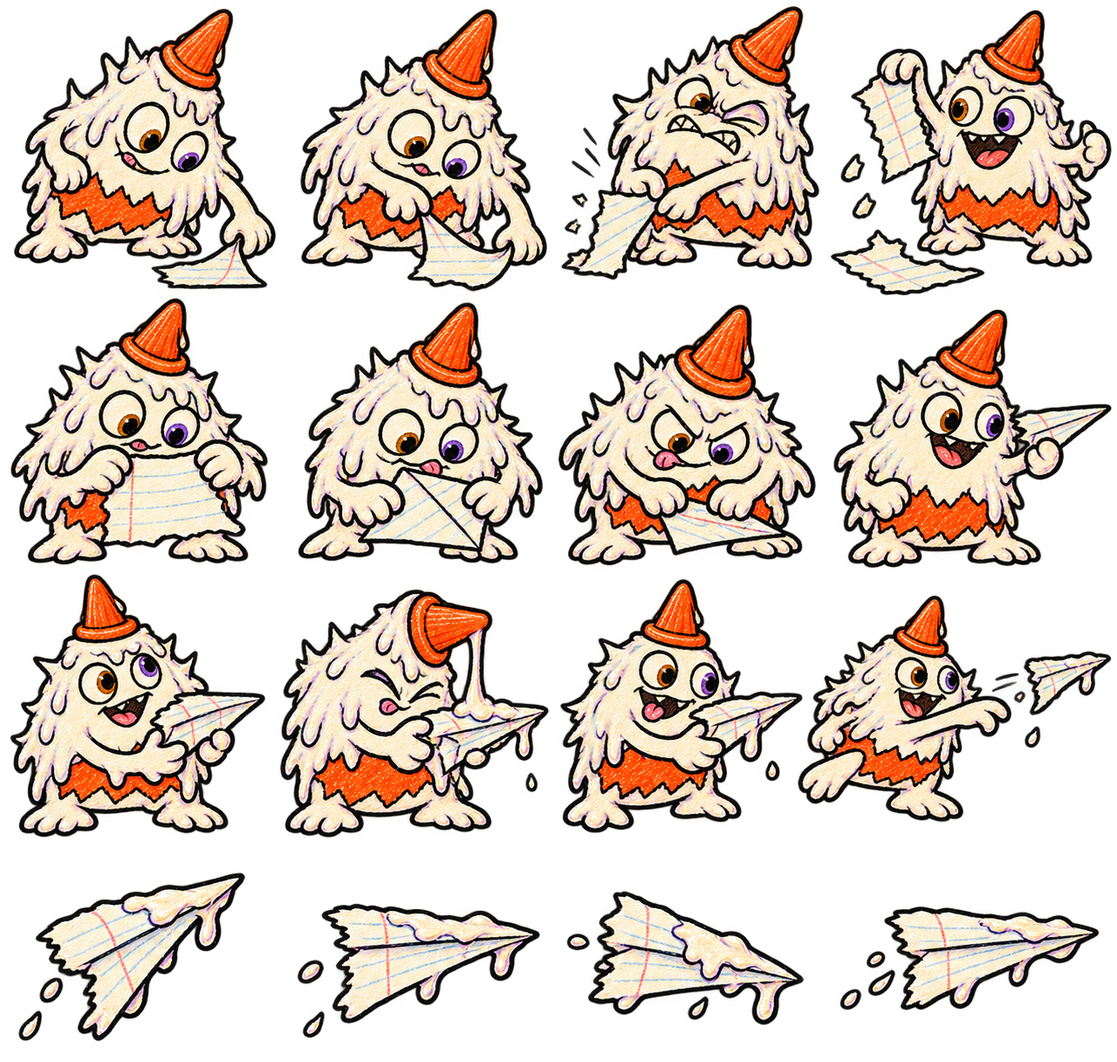
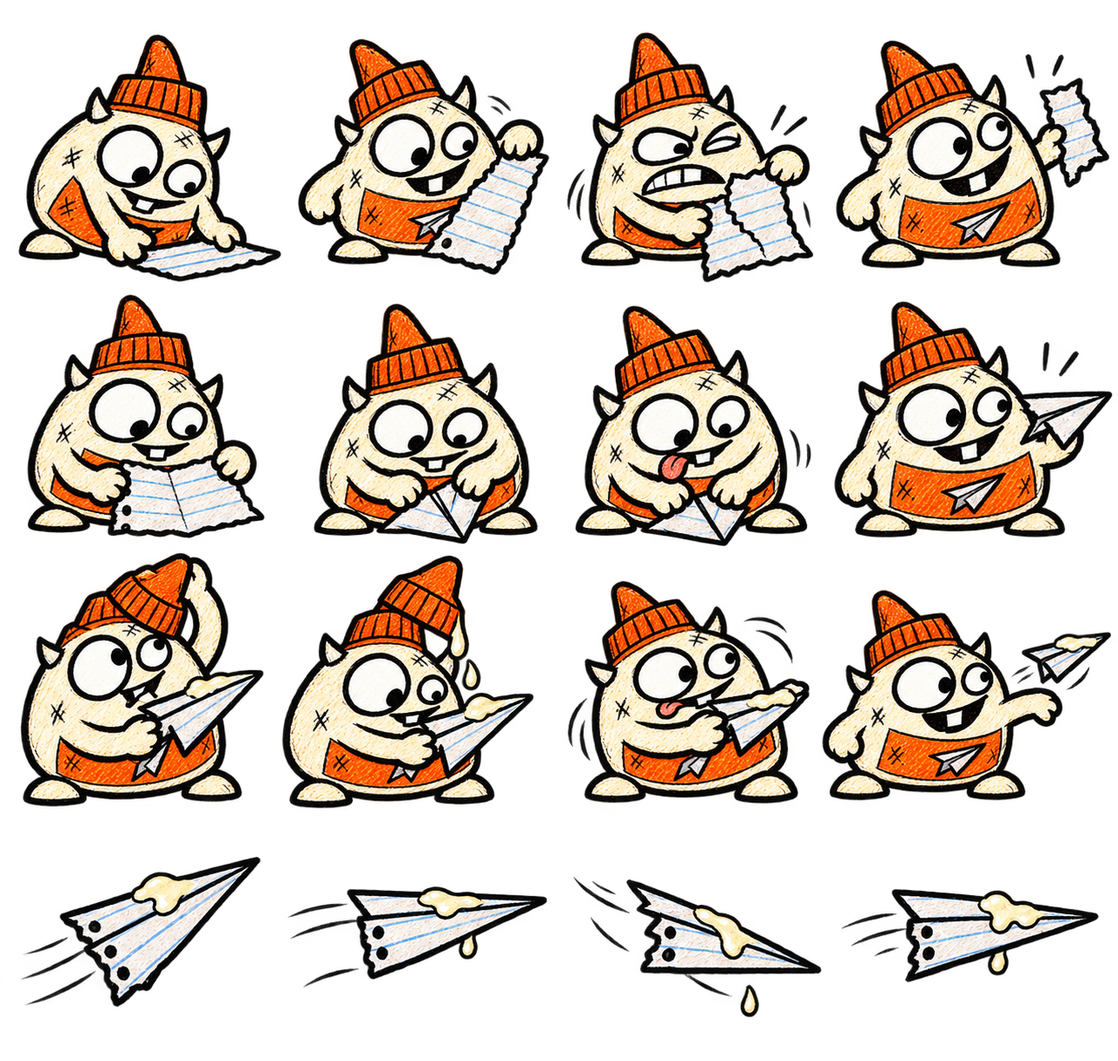
Redesign White Brothers with distinct clean notebook monster silhouettes

diff --git a/index.html b/index.html
@@ -293,7 +293,7 @@
 </div>
 <div id="focusResumeOverlay" hidden role="dialog" aria-modal="true" aria-labelledby="focusResumeTitle"><div class="focus-resume-note"><span class="section-kicker">PENCIL DOWN</span><h2 id="focusResumeTitle">Saved your place.</h2><p>The game paused while you were away. Click when you’re ready.</p><button id="focusResumeBtn">Click to resume</button></div></div>
 <div id="desktopInkFeedback" hidden role="status">Not enough ink</div>
-<div class="overlay build-overlay" id="whiteBrothersOverlay" style="display:none" role="dialog" aria-modal="true" aria-labelledby="brothersTitle"><div class="cardbox build-box brothers-studio"><div class="build-heading"><div><span class="section-kicker">STEVIE’S MONSTER WORKSHOP</span><h2 id="brothersTitle">The White Brothers</h2></div><button id="closeWhiteBrothersBtn">Back to settings</button></div><p class="brothers-caption">Mr. Out &amp; Mr. Glue · Character and animation preview. The boss encounter comes later.</p><canvas id="brothersCanvas" width="1000" height="530" aria-label="Animated Mr. Out and Mr. Glue monster models"></canvas><div class="brothers-tools"><label>Animate<select id="brothersCharacter"><option value="both">Both brothers</option><option value="wite">Mr. Out</option><option value="glue">Mr. Glue</option></select></label><label>Speed<select id="brothersSpeed"><option value="0.5">Half speed</option><option value="1" selected>Normal</option><option value="2">Double speed</option></select></label><label><input id="brothersLoop" type="checkbox" checked>Loop</label><label><input id="brothersReduced" type="checkbox">Low motion</label></div><div class="brothers-actions"><button type="button" id="brothers-idle" class="secondary">Idle</button><button type="button" id="brothers-walk" class="secondary">Walk</button><button type="button" id="brothers-intro" class="secondary">Entrance</button><button type="button" id="brothers-attack" class="secondary">Attack</button><button type="button" id="brothers-throw" class="secondary">Throw</button><button type="button" id="brothers-hit" class="secondary">Hit</button><button type="button" id="brothers-dizzy" class="secondary">Dizzy</button><button type="button" id="brothers-tantrum" class="secondary">Tantrum</button><button type="button" id="brothers-defeat" class="secondary">Defeat</button></div><footer class="brothers-footer"><button id="brothersShowcaseBtn">Stop showcase</button><button id="brothersPauseBtn" class="secondary">Pause</button><button id="brothersResetBtn" class="secondary">Reset poses</button></footer><p id="brothersStatus" role="status"></p></div></div>
+<div class="overlay build-overlay" id="whiteBrothersOverlay" style="display:none" role="dialog" aria-modal="true" aria-labelledby="brothersTitle"><div class="cardbox build-box brothers-studio"><div class="build-heading"><div><span class="section-kicker">STEVIE’S MONSTER WORKSHOP</span><h2 id="brothersTitle">The White Brothers</h2></div><button id="closeWhiteBrothersBtn">Back to settings</button></div><p class="brothers-caption">Mr. Out &amp; Mr. Glue · Character and animation preview. Meet both brothers together on wave 20.</p><canvas id="brothersCanvas" width="1000" height="530" aria-label="Animated Mr. Out and Mr. Glue monster models"></canvas><div class="brothers-tools"><label>Animate<select id="brothersCharacter"><option value="both">Both brothers</option><option value="wite">Mr. Out</option><option value="glue">Mr. Glue</option></select></label><label>Speed<select id="brothersSpeed"><option value="0.5">Half speed</option><option value="1" selected>Normal</option><option value="2">Double speed</option></select></label><label><input id="brothersLoop" type="checkbox" checked>Loop</label><label><input id="brothersReduced" type="checkbox">Low motion</label></div><div class="brothers-actions"><button type="button" id="brothers-idle" class="secondary">Idle</button><button type="button" id="brothers-walk" class="secondary">Walk</button><button type="button" id="brothers-intro" class="secondary">Entrance</button><button type="button" id="brothers-attack" class="secondary">Attack</button><button type="button" id="brothers-throw" class="secondary">Throw</button><button type="button" id="brothers-hit" class="secondary">Hit</button><button type="button" id="brothers-dizzy" class="secondary">Dizzy</button><button type="button" id="brothers-tantrum" class="secondary">Tantrum</button><button type="button" id="brothers-defeat" class="secondary">Defeat</button></div><footer class="brothers-footer"><button id="brothersShowcaseBtn">Stop showcase</button><button id="brothersPauseBtn" class="secondary">Pause</button><button id="brothersResetBtn" class="secondary">Reset poses</button></footer><p id="brothersStatus" role="status"></p></div></div>
 <div class="overlay" id="desktopQuitOverlay" style="display:none" role="dialog" aria-modal="true" aria-labelledby="desktopQuitTitle"><div class="cardbox desktop-quit-note"><h2 id="desktopQuitTitle">Close the notebook?</h2><p>Your current run ends here. Banked scraps, upgrades and discoveries stay saved.</p><div class="cardactions"><button class="secondary" id="desktopQuitCancel">Keep playing</button><button id="desktopQuitConfirm">Quit to desktop</button></div><p id="desktopQuitStatus" role="status"></p></div></div>
 <div class="overlay build-overlay" id="optionsOverlay" style="display:none" role="dialog" aria-modal="true" aria-labelledby="optionsTitle">
   <div class="cardbox build-box options-book">
@@ -437,7 +437,7 @@
     <p>Recent updates, newest first. Your run pauses while this screen is open.</p>
     <!-- CHANGELOG: prepend a new article for each future player-facing update. Keep older entries. -->
     <div id="changelogEntries" class="build-upgrades">
-      <article class="build-entry"><h3>Alpha 0.1.100 · The White Brothers get crafty</h3><p>Wave 20 now features Mr. Out and Mr. Glue with a shared health bar. Draw over little brushes to collect whiteout—even with an empty ink tank—then paint either brother to hurt them. Empty brushes run away. Erase floor glue to load a sticky eraser, then leave traps that catch brushes and airplanes or briefly pin a brother. Tool coatings run out and return to normal without spending saved ink. The brothers clear walls, ignore wall damage and conditions, and take limited paper-ball damage. Includes animated paper tearing, folding, glue squeezing, lazy airplanes and clear tool-supply cues.</p><p>PC introductions and wave transitions fit on one screen. Rip-Raff works from far margins with animated cutting and erasable flying grenades. Pew-Pew shoots farther on PC. Native desktop adds confirmed Quit to Desktop actions. Vampire healing starts 30% lower and gains half as much per rank; its damage stays unchanged.</p></article>
+      <article class="build-entry"><h3>Alpha 0.1.100 · The White Brothers get crafty</h3><p>Wave 20 now features Mr. Out and Mr. Glue with a shared health bar. Draw over little brushes to collect whiteout—even with an empty ink tank—then paint either brother to hurt them. Empty brushes run away. Erase floor glue to load a sticky eraser, then leave traps that catch brushes and airplanes or briefly pin a brother. Tool coatings run out and return to normal without spending saved ink. The brothers clear walls, ignore wall damage and conditions, and take limited paper-ball damage. Mr. Out is now a tall, tidy correction monster with a stern face and blue cap; Mr. Glue is a round orange-capped craft goblin with a buck-tooth grin. Clean crayon bodies, rounded hands and distinct expressions replace the drippy art, including the tearing, folding and airplane animations. Tool-supply cues remain clear.</p><p>PC introductions and wave transitions fit on one screen. Rip-Raff works from far margins with animated cutting and erasable flying grenades. Pew-Pew shoots farther on PC. Native desktop adds confirmed Quit to Desktop actions. Vampire healing starts 30% lower and gains half as much per rank; its damage stays unchanged.</p></article>
       <article class="build-entry"><h3>Alpha 0.1.99 · Meet the White Brothers</h3><p>Mr. Out and Mr. Glue have custom spiky, sticky monster artwork and articulated faces, claws and props. Try nine animations for each in Settings → Test a fight → Extras → White Brothers: idle, walk, entrance, attack, throw, hit, dizzy, tantrum and defeat. The studio includes individual selection, a showcase, speed, pause and low-motion controls. This is a character preview; the final boss fight is unchanged.</p></article>
       <article class="build-entry"><h3>Alpha 0.1.98 · A new shortcut at wave nine</h3><p>Zoom Nugget and Nope Goblin are taking a break from wave spawns and introductions; their artwork, notes and test options remain. Rip-Raff now arrives at wave nine, tearing shortcuts and calling runners beneath the paper. Scripted groups and King Doodle-Doom use Gribbles in place of Nuggets.</p></article>
       <article class="build-entry"><h3>Alpha 0.1.97 · Something under the homework</h3><p>Underground monsters now lift the paper into a shaded, crawling hump. Alternating paw presses, a forward head bulge, trailing creases and bent notebook lines make the creature feel beneath the sheet. The hump settles as it emerges; reduced motion keeps it steady. Tunnel rules and rubbing time are unchanged.</p></article>

diff --git a/js/white-brothers-rig.js b/js/white-brothers-rig.js
@@ -19,33 +19,43 @@ DoodleDefender.WhiteBrothersRig=(()=>{
   return p;
  }
  function line(ctx,points,color,width){ctx.beginPath();ctx.moveTo(...points[0]);for(const p of points.slice(1))ctx.lineTo(...p);ctx.lineCap='round';ctx.lineJoin='round';ctx.strokeStyle='#29272b';ctx.lineWidth=width+4;ctx.stroke();ctx.strokeStyle=color;ctx.lineWidth=width;ctx.stroke();}
- function hand(ctx,x,y,color){ctx.save();ctx.translate(x,y);ctx.fillStyle=color;ctx.strokeStyle='#29272b';ctx.lineWidth=2.4;ctx.beginPath();ctx.moveTo(-11,-5);ctx.lineTo(-7,-15);ctx.lineTo(-2,-7);ctx.lineTo(3,-18);ctx.lineTo(7,-6);ctx.lineTo(15,-12);ctx.lineTo(14,3);ctx.quadraticCurveTo(2,14,-9,6);ctx.closePath();ctx.fill();ctx.stroke();ctx.restore();}
+ function hand(ctx,x,y,color){ctx.save();ctx.translate(x,y);ctx.fillStyle=color;ctx.strokeStyle='#29272b';ctx.lineWidth=2.3;ctx.beginPath();ctx.moveTo(-10,2);ctx.quadraticCurveTo(-17,-8,-8,-9);ctx.quadraticCurveTo(-9,-18,-2,-12);ctx.quadraticCurveTo(5,-19,8,-9);ctx.quadraticCurveTo(20,-11,13,2);ctx.quadraticCurveTo(2,13,-10,2);ctx.fill();ctx.stroke();ctx.restore();}
+ function foot(ctx,x,y,color){ctx.fillStyle=color;ctx.strokeStyle='#29272b';ctx.lineWidth=2.6;ctx.beginPath();ctx.ellipse(x,y,19,8,-.12,0,Math.PI*2);ctx.fill();ctx.stroke();ctx.beginPath();ctx.moveTo(x-10,y+2);ctx.lineTo(x+11,y+1);ctx.stroke();}
  function star(ctx,x,y,r,color){ctx.save();ctx.translate(x,y);ctx.fillStyle=color;ctx.strokeStyle='#524149';ctx.lineWidth=1.4;ctx.beginPath();for(let i=0;i<10;i++){const a=-Math.PI/2+i*Math.PI/5,q=i%2?r*.45:r;i?ctx.lineTo(Math.cos(a)*q,Math.sin(a)*q):ctx.moveTo(Math.cos(a)*q,Math.sin(a)*q);}ctx.closePath();ctx.fill();ctx.stroke();ctx.restore();}
  function blob(ctx,x,y,r,color){ctx.fillStyle=color;ctx.strokeStyle='#65536c';ctx.lineWidth=2;ctx.beginPath();for(let i=0;i<14;i++){const a=i*Math.PI/7,q=r*(i%2?.75:1);i?ctx.lineTo(x+Math.cos(a)*q,y+Math.sin(a)*q):ctx.moveTo(x+Math.cos(a)*q,y+Math.sin(a)*q);}ctx.closePath();ctx.fill();ctx.stroke();}
  function face(ctx,p,glue){
-  ctx.save();ctx.translate(glue?2:0,-20);ctx.strokeStyle='#25242a';ctx.lineWidth=3;
-  for(const side of [-1,1]){const x=side*22,y=side===-1?-12:-16,rx=side===-1?17:14;ctx.fillStyle='#fffdf4';ctx.beginPath();ctx.ellipse(x,y,rx,p.blink?2:19,side*.13,0,Math.PI*2);ctx.fill();ctx.stroke();
-   if(!p.blink){if(p.face==='dizzy'){ctx.beginPath();for(let i=0;i<30;i++){const a=i*.3,r=i*.23;i?ctx.lineTo(x+Math.cos(a)*r,y+Math.sin(a)*r):ctx.moveTo(x,y);}ctx.lineWidth=1.6;ctx.stroke();ctx.lineWidth=3;}else if(['hurt','defeat'].includes(p.face)){ctx.beginPath();ctx.moveTo(x-5,y-5);ctx.lineTo(x+5,y+5);ctx.moveTo(x+5,y-5);ctx.lineTo(x-5,y+5);ctx.stroke();}else{ctx.fillStyle='#25242a';ctx.beginPath();ctx.ellipse(x+3,y+2,5,8,0,0,Math.PI*2);ctx.fill();}}
-   ctx.beginPath();ctx.moveTo(x-15,y-25+(side===-1?-3:4));ctx.lineTo(x+14,y-24+(side===-1?7:-6));ctx.lineWidth=5;ctx.stroke();ctx.lineWidth=3;
+  ctx.save();ctx.translate(0,glue?-2:-20);ctx.strokeStyle='#25242a';ctx.lineWidth=3;
+  for(const side of [-1,1]){
+   const x=side*(glue?24:21),y=side<0?-13:-9,rx=side<0?(glue?25:22):(glue?18:16),squint=!glue&&side>0&&!['roar','hurt','dizzy','defeat'].includes(p.face),ry=p.blink?2:squint?10:side<0?26:20;
+   ctx.fillStyle='#fffdf4';ctx.beginPath();ctx.ellipse(x,y,rx,ry,side*.08,0,Math.PI*2);ctx.fill();ctx.stroke();
+   if(!p.blink){
+    if(p.face==='dizzy'){ctx.beginPath();for(let i=0;i<30;i++){const a=i*.3,r=i*.23;i?ctx.lineTo(x+Math.cos(a)*r,y+Math.sin(a)*r):ctx.moveTo(x,y);}ctx.lineWidth=1.6;ctx.stroke();ctx.lineWidth=3;}
+    else if(['hurt','defeat'].includes(p.face)){ctx.beginPath();ctx.moveTo(x-5,y-5);ctx.lineTo(x+5,y+5);ctx.moveTo(x+5,y-5);ctx.lineTo(x-5,y+5);ctx.stroke();}
+    else{ctx.fillStyle='#25242a';ctx.beginPath();ctx.ellipse(x+5,y+2,5,7,0,0,Math.PI*2);ctx.fill();}
+   }
+   if(!glue||['angry','strain'].includes(p.face)){ctx.beginPath();ctx.moveTo(x-15,y-ry-7+(side<0?-5:6));ctx.lineTo(x+14,y-ry-5+(side<0?6:-4));ctx.lineWidth=4;ctx.stroke();ctx.lineWidth=3;}
   }
-  const open=['roar','strain','defeat'].includes(p.face),y=23;ctx.fillStyle='#42323b';ctx.beginPath();ctx.moveTo(-32,y-8);ctx.quadraticCurveTo(0,y+4,33,y-12);ctx.quadraticCurveTo(30,y+(open?35:16),0,y+(open?34:16));ctx.quadraticCurveTo(-28,y+(open?31:14),-32,y-8);ctx.closePath();ctx.fill();ctx.stroke();
-  ctx.fillStyle='#fff7d8';for(const x of [-22,-8,8,24]){ctx.beginPath();ctx.moveTo(x-5,y-4);ctx.lineTo(x+5,y-4);ctx.lineTo(x+1,y+(x%3?8:13));ctx.closePath();ctx.fill();ctx.stroke();}
-  if(open){ctx.fillStyle='#da8f9c';ctx.beginPath();ctx.ellipse(5,y+24,13,5,0,0,Math.PI*2);ctx.fill();}
+  const open=['roar','strain','defeat'].includes(p.face);
+  if(!glue&&!open){ctx.beginPath();ctx.moveTo(-22,24);ctx.lineTo(-10,13);ctx.lineTo(1,23);ctx.lineTo(13,13);ctx.lineTo(24,24);ctx.stroke();}
+  else{
+   const y=glue?14:15;ctx.fillStyle='#34313b';ctx.beginPath();ctx.moveTo(-30,y);ctx.quadraticCurveTo(1,y+10,31,y-3);ctx.quadraticCurveTo(10,y+(open?28:21),-6,y+18);ctx.quadraticCurveTo(-23,y+15,-30,y);ctx.fill();ctx.stroke();
+   ctx.fillStyle='#fffdf2';ctx.beginPath();ctx.rect(glue?-3:-10,y+5,glue?13:20,11);ctx.fill();ctx.stroke();
+  }
   ctx.restore();
  }
  function draw(ctx,image,m,{reduced=false}={}){
-  const p=pose(m,reduced),glue=m.kind==='glue',color=glue?'#e0d5e9':'#eee8d3';
+  const p=pose(m,reduced),glue=m.kind==='glue',color=glue?'#fff0cf':'#27499b';
   ctx.save();ctx.translate(p.x,p.y);ctx.rotate(p.angle);ctx.scale(p.sx,p.sy);
-  // Clawed legs and jointed arms are independent of the textured torso.
-  for(const side of [-1,1]){const foot=side<0?p.leftFoot:p.rightFoot;line(ctx,[[side*35,68],[side*43,99-Math.max(0,foot)*.2],[side*58+foot*.3,117-Math.max(0,foot)]],color,13);hand(ctx,side*58+foot*.3,119-Math.max(0,foot),color);}
+  // Stiff little shoes for Mr. Out; short waddling feet for Mr. Glue.
+  for(const side of [-1,1]){const gait=side<0?p.leftFoot:p.rightFoot,x=side*(glue?45:35),y=(glue?104:117)-Math.max(0,gait)*(glue?.35:.65);line(ctx,[[x,78],[x+gait*.2,y]],color,glue?10:5);foot(ctx,x+gait*.25,y,color);}
   const wrists=[];
-  for(const side of [-1,1]){const angle=side<0?p.left:p.right,root={x:side*64,y:8},elbow={x:root.x+side*Math.cos(angle)*28,y:root.y+Math.sin(angle)*32+13},wrist={x:elbow.x+side*Math.cos(angle+.25)*35,y:elbow.y+Math.sin(angle+.25)*35};wrists.push(wrist);line(ctx,[[root.x,root.y],[elbow.x,elbow.y],[wrist.x,wrist.y]],color,12);}
+  for(const side of [-1,1]){const angle=side<0?p.left:p.right,root={x:side*(glue?64:48),y:glue?25:8},elbow={x:root.x+side*Math.cos(angle)*28,y:root.y+Math.sin(angle)*32+13},wrist={x:elbow.x+side*Math.cos(angle+.25)*35,y:elbow.y+Math.sin(angle+.25)*35};wrists.push(wrist);line(ctx,[[root.x,root.y],[elbow.x,elbow.y],[wrist.x,wrist.y]],color,glue?10:5);}
   if(image&&image.naturalWidth){const cw=image.naturalWidth/2;ctx.drawImage(image,glue?cw:0,0,cw,image.naturalHeight,-112,-143,224,244);}else{ctx.fillStyle=glue?'#f1e8d8':'#f4efe0';ctx.strokeStyle='#29272b';ctx.lineWidth=3;ctx.beginPath();for(let i=0;i<24;i++){const a=i*Math.PI/12,r=i%2?66:82;i?ctx.lineTo(Math.cos(a)*r,Math.sin(a)*r):ctx.moveTo(r,0);}ctx.closePath();ctx.fill();ctx.stroke();}
   face(ctx,p,glue);
   for(let i=0;i<2;i++){const w=wrists[i];hand(ctx,w.x,w.y,color);}
   const w=wrists[1];
   if(!glue){ctx.save();ctx.translate(w.x,w.y);ctx.rotate(p.right*.7-.3);line(ctx,[[0,6],[10,-55]],'#7e5aa7',8);ctx.fillStyle='#ebe7d7';ctx.strokeStyle='#28252e';ctx.lineWidth=2;ctx.beginPath();ctx.moveTo(1,-50);ctx.lineTo(22,-48);ctx.lineTo(29,-79);ctx.lineTo(2,-83);ctx.closePath();ctx.fill();ctx.stroke();for(let i=0;i<5;i++){ctx.beginPath();ctx.moveTo(5+i*4,-54);ctx.lineTo(7+i*4,-77);ctx.stroke();}ctx.restore();}
-  else{ctx.strokeStyle='#a189b6';ctx.lineWidth=3;ctx.beginPath();ctx.moveTo(wrists[0].x,wrists[0].y);ctx.quadraticCurveTo(0,95,wrists[1].x,wrists[1].y);ctx.stroke();}
+  else{ctx.save();ctx.translate(w.x,w.y);ctx.rotate(-.2);ctx.fillStyle='#fff9e6';ctx.strokeStyle='#33313b';ctx.lineWidth=2;ctx.beginPath();ctx.moveTo(34,-8);ctx.lineTo(-18,-22);ctx.lineTo(-6,-6);ctx.lineTo(-18,10);ctx.closePath();ctx.fill();ctx.stroke();ctx.beginPath();ctx.moveTo(-6,-6);ctx.lineTo(34,-8);ctx.stroke();ctx.restore();}
   if(m.action==='attack'&&p.effect>0){ctx.globalAlpha=p.effect;if(glue){ctx.strokeStyle='#b5a0cb';ctx.lineWidth=9;ctx.beginPath();ctx.moveTo(4,-100);ctx.quadraticCurveTo(135,-120,158,60);ctx.stroke();blob(ctx,158,70,23,'#d6c4e6');}else{ctx.strokeStyle='#898484';ctx.lineWidth=21;ctx.beginPath();ctx.ellipse(100,24,87,36,.3,-1.2,1.3);ctx.stroke();ctx.strokeStyle='#fffdf0';ctx.lineWidth=17;ctx.stroke();}ctx.globalAlpha=1;}
   if(m.action==='throw'&&p.effect>0&&p.effect<1){const t=p.effect;blob(ctx,90+t*110,-25-Math.sin(t*Math.PI)*100+t*65,15,glue?'#d6c4e6':'#fffdf0');}
   if(m.action==='dizzy')for(let i=0;i<3;i++){const a=(reduced?0:m.time*3)+i*Math.PI*2/3;star(ctx,Math.cos(a)*55,-146+Math.sin(a)*11,8,'#efcd54');}

diff --git a/docs/mr-glue-airplanes-preview.html b/docs/mr-glue-airplanes-preview.html
@@ -1,6 +1,6 @@
 <!doctype html><html lang="en"><meta charset="utf-8"><meta name="viewport" content="width=device-width,initial-scale=1"><title>Mr. Glue’s paper airplane workshop</title>
 <style>body{margin:0;padding:20px;background:#f5efdf;color:#302d35;font:18px system-ui}main{max-width:1040px;margin:auto}h1{color:#315d8c}p{line-height:1.5}button{font:inherit;padding:12px 20px;background:#fffaf0;border:2px solid #635648;border-radius:12px;cursor:pointer}#scene{display:block;width:100%;aspect-ratio:1000/390;margin:20px 0;background:repeating-linear-gradient(#fffaf0 0 27px,#b9cdd955 28px,#fffaf0 29px)}section{display:flex;flex-wrap:wrap;gap:12px}figure{margin:0;flex:1 1 200px;text-align:center}figure canvas{width:100%;max-width:240px;aspect-ratio:1}small{display:block;margin-top:24px}</style>
-<main><h1>Mr. Glue’s paper airplane workshop</h1><p>Rip. Fold. Glue. A deeply irresponsible little flight toward Stevie. Animation preview only—the encounter is not wired yet.</p><button id="pause" aria-pressed="false">Pause animations</button><canvas id="scene" width="1000" height="390" aria-label="Mr Glue tears up a scrap, folds and glues it, then launches a slowly swaying airplane toward Stevie"></canvas><p id="stage" aria-live="off">Loading artwork…</p><section>
+<main><h1>Mr. Glue’s paper airplane workshop</h1><p>Rip. Fold. Glue. A deeply irresponsible little flight toward Stevie. A standalone animation preview for the wave-20 encounter.</p><button id="pause" aria-pressed="false">Pause animations</button><canvas id="scene" width="1000" height="390" aria-label="Mr Glue tears up a scrap, folds and glues it, then launches a slowly swaying airplane toward Stevie"></canvas><p id="stage" aria-live="off">Loading artwork…</p><section>
 <figure><canvas width="340" height="340" data-action="tear" aria-label="Pulling and tearing paper"></canvas><figcaption>Borrowing the floor.</figcaption></figure><figure><canvas width="340" height="340" data-action="fold" aria-label="Folding a paper airplane"></canvas><figcaption>Very careful creases.</figcaption></figure><figure><canvas width="340" height="340" data-action="glue" aria-label="Squirting glue and releasing the plane"></canvas><figcaption>Entirely too much glue.</figcaption></figure><figure><canvas width="340" height="340" data-action="fly" aria-label="Glue covered airplane banking lazily"></canvas><figcaption>Absolutely no urgency.</figcaption></figure></section><small>Pause and reduced-motion support included. No gameplay, damage, saves or desktop client changes.</small></main>
 <script>
 (async()=>{const atlas=await fetch('../assets/art/mr-glue-airplanes.json').then(r=>r.json()),image=new Image(),stevie=new Image();image.src='../assets/art/'+atlas.image;stevie.src='../assets/art/stevie.png';await Promise.all([image.decode(),stevie.decode()]);const button=document.getElementById('pause'),reduced=matchMedia('(prefers-reduced-motion: reduce)'),scene=document.getElementById('scene'),ctx=scene.getContext('2d'),cards=[...document.querySelectorAll('[data-action]')];let paused=false,time=0,last=null;

diff --git a/docs/whiteout-brush-preview.html b/docs/whiteout-brush-preview.html
@@ -2,7 +2,7 @@
 <html lang="en"><meta charset="utf-8"><meta name="viewport" content="width=device-width,initial-scale=1"><title>Whiteout brush animation study</title>
 <style>
 body{margin:0;padding:24px;background:#f5efdf;color:#302d35;font:18px system-ui}main{max-width:1000px;margin:auto}h1{color:#315d8c}section{display:flex;flex-wrap:wrap;gap:20px}figure{margin:0;flex:1 1 240px;text-align:center}canvas{width:100%;max-width:300px;aspect-ratio:1;display:block;margin:auto}button{padding:12px 20px;font:inherit;border-radius:12px;border:2px solid #635648;background:#fffaf0;cursor:pointer}p{line-height:1.5}small{display:block;margin-top:24px}
-</style><main><h1>Mr. Out’s little brush brigade</h1><p>Marching, caught in glue, and having their whiteout collected. Artwork study—these minions are not in the boss encounter yet.</p><button id="pause" aria-pressed="false">Pause animations</button>
+</style><main><h1>Mr. Out’s little brush brigade</h1><p>Marching, caught in glue, and having their whiteout collected. Animation study for the wave-20 White Brothers encounter.</p><button id="pause" aria-pressed="false">Pause animations</button>
 <section><figure><canvas width="362" height="362" data-action="march" aria-label="Eight-pose brush marching cycle"></canvas><figcaption>Tiny feet. Big ambitions.</figcaption></figure><figure><canvas width="362" height="362" data-action="glued" aria-label="Brush struggling in glue"></canvas><figcaption>Well, this is sticky.</figcaption></figure><figure><canvas width="362" height="362" data-action="drain" aria-label="Brush drained of whiteout"></canvas><figcaption>Out of whiteout. Out of confidence.</figcaption></figure></section><small>Respects reduced-motion settings. Art and animation timing are separate from future gameplay.</small></main>
 <script>
 (async()=>{const atlas=await fetch('../assets/art/whiteout-brush-sprites.json').then(r=>r.json()),img=new Image();img.src='../assets/art/'+atlas.image;await img.decode();const canvases=[...document.querySelectorAll('canvas')],reduced=matchMedia('(prefers-reduced-motion: reduce)'),button=document.getElementById('pause');let paused=false,time=0,last=null;

diff --git a/docs/mr-glue-effects-preview.html b/docs/mr-glue-effects-preview.html
@@ -2,7 +2,7 @@
 <html lang="en"><meta charset="utf-8"><meta name="viewport" content="width=device-width,initial-scale=1"><title>Mr. Glue animation study</title>
 <style>
 body{margin:0;padding:24px;background:#f5efdf;color:#302d35;font:18px system-ui}main{max-width:1000px;margin:auto}h1{color:#315d8c}section{display:flex;flex-wrap:wrap;gap:20px}figure{margin:0;flex:1 1 240px;text-align:center}canvas{width:100%;max-width:300px;aspect-ratio:1;display:block;margin:auto}button{padding:12px 20px;font:inherit;border-radius:12px;border:2px solid #635648;background:#fffaf0;cursor:pointer}p{line-height:1.5}small{display:block;margin-top:24px}
-</style><main><h1>Mr. Glue’s sticky situation</h1><p>Stretchy shots, squashy landings, and gently bubbling floor glue. Animation study—the boss mechanics are not wired yet.</p><button id="pause" aria-pressed="false">Pause animations</button>
+</style><main><h1>Mr. Glue’s sticky situation</h1><p>Stretchy shots, squashy landings, and gently bubbling floor glue. Animation study for the wave-20 White Brothers encounter.</p><button id="pause" aria-pressed="false">Pause animations</button>
 <section><figure><canvas width="362" height="362" data-action="shoot" aria-label="Glue stretching and launching"></canvas><figcaption>Stretch, squeeze, launch!</figcaption></figure><figure><canvas width="362" height="362" data-action="splat" aria-label="Glue landing with a splash"></canvas><figcaption>A proper splat.</figcaption></figure><figure><canvas width="362" height="362" data-action="puddle" aria-label="Floor glue bubbling gently"></canvas><figcaption>Definitely do not step in this.</figcaption></figure></section><small>Respects reduced-motion settings. Art and animation timing are separate from future gameplay.</small></main>
 <script>
 (async()=>{const atlas=await fetch('../assets/art/mr-glue-effects.json').then(r=>r.json()),img=new Image();img.src='../assets/art/'+atlas.image;await img.decode();const canvases=[...document.querySelectorAll('canvas')],reduced=matchMedia('(prefers-reduced-motion: reduce)'),button=document.getElementById('pause');let paused=false,time=0,last=null;

diff --git a/js/white-brothers-boss.js b/js/white-brothers-boss.js
@@ -138,7 +138,7 @@ DoodleDefender.systems.whiteBrothersBoss=function(game){
  function resetWhiteToolsStroke(){if(fight){fight.pencilStroke=false;fight.glueStroke=false;}lastEraseHandled=false;}
  function moveWhiteBrothers(dx,dy){if(!fight)return;for(const list of [fight.brushes,fight.planes,fight.blobs,fight.traps])for(const p of list){p.x+=dx;p.y+=dy;}for(const t of fight.strokes){t.a.x+=dx;t.a.y+=dy;t.b.x+=dx;t.b.y+=dy;}}
  function sprite(ctx,name,index,cols,rows,x,y,w,h){const img=art[name];if(!img)return false;const cw=img.naturalWidth/cols,ch=img.naturalHeight/rows;ctx.drawImage(img,(index%cols)*cw,Math.floor(index/cols)*ch,cw,ch,x-w/2,y-h/2,w,h);return true;}
- function planeSprite(ctx,index,x,y,w,h){const img=art['mr-glue-airplanes'];if(!img)return false;const xs=[0,322,644,966,1286],ys=[0,340,655,965,1223],col=index%4,row=Math.floor(index/4);ctx.drawImage(img,xs[col],ys[row],xs[col+1]-xs[col],ys[row+1]-ys[row],x-w/2,y-h/2,w,h);return true;}
+ function planeSprite(ctx,index,x,y,w,h){const img=art['mr-glue-airplanes'];if(!img)return false;const xs=[0,322,644,966,1287],ys=[0,326,629,938,1222],col=index%4,row=Math.floor(index/4);ctx.drawImage(img,xs[col],ys[row],xs[col+1]-xs[col],ys[row+1]-ys[row],x-w/2,y-h/2,w,h);return true;}
  function glueBlob(ctx,b,trap=false){if(sprite(ctx,'mr-glue-effects',8+(api.enemyMotionReduced()?0:Math.floor((fight.time+b.age)*4)%4),4,3,b.x,b.y,b.r*2.8,b.r*2.3))return;ctx.fillStyle=trap?'#d6c0e6':'#fff9df';ctx.strokeStyle='#9b86a5';ctx.lineWidth=2;ctx.beginPath();ctx.ellipse(b.x,b.y,b.r,b.r*.6,0,0,Math.PI*2);ctx.fill();ctx.stroke();}
  function drawWhiteBrotherBody(e){
   if(!isWhiteBrother(e)&&!['eraser','mr-glue'].includes(e.type))return false;const ctx=game.dom.ctx,actor=fight?.actors.find(a=>a.e===e),model=actor?.model||rig.create(e.whiteKind==='glue'||e.type==='mr-glue'?'glue':'wite'),scale=e.r/85;
